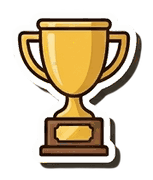
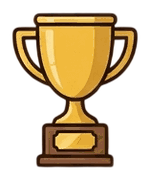
Novos moveis (mais limpos) + tamanho reduzido na grid (66%)

diff --git a/index.html b/index.html
@@ -141,7 +141,7 @@ button{font-family:var(--sans)}
 .gcell.wbot{border-bottom:3px solid var(--ink)}
 .gcell.wleft{border-left:3px solid var(--ink)}
 .gcell.wright{border-right:3px solid var(--ink)}
-.gcell svg.furn,.gcell img.furn{max-width:78%;max-height:78%;width:auto;height:auto;object-fit:contain;pointer-events:none}
+.gcell svg.furn,.gcell img.furn{max-width:66%;max-height:66%;width:auto;height:auto;object-fit:contain;pointer-events:none}
 .gcell.occ{cursor:pointer}
 .gcell.blocked{cursor:default}
 .gcell.selectable::after{content:"";position:absolute;inset:3px;border:2px dashed var(--red);border-radius:6px;opacity:.9;animation:dash 1s linear infinite;z-index:3}
